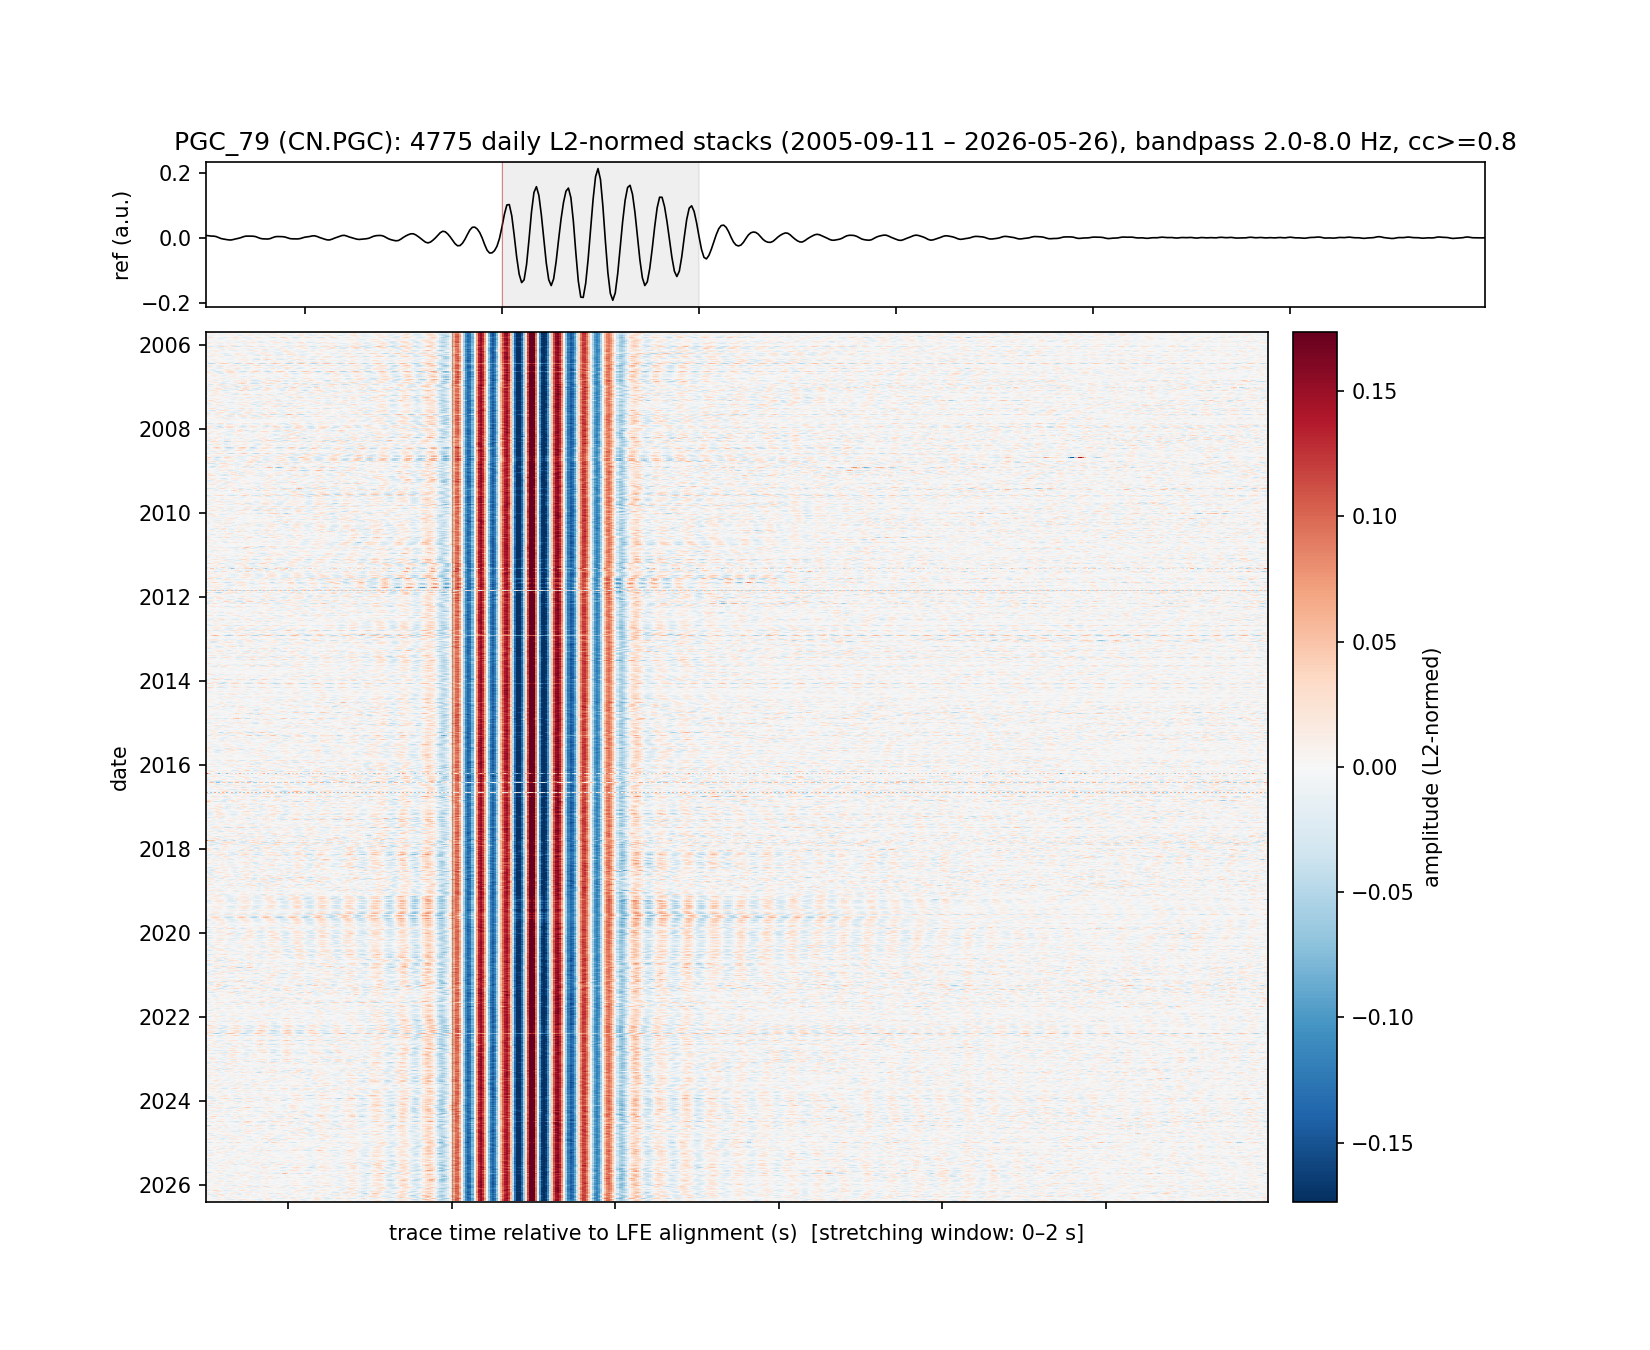
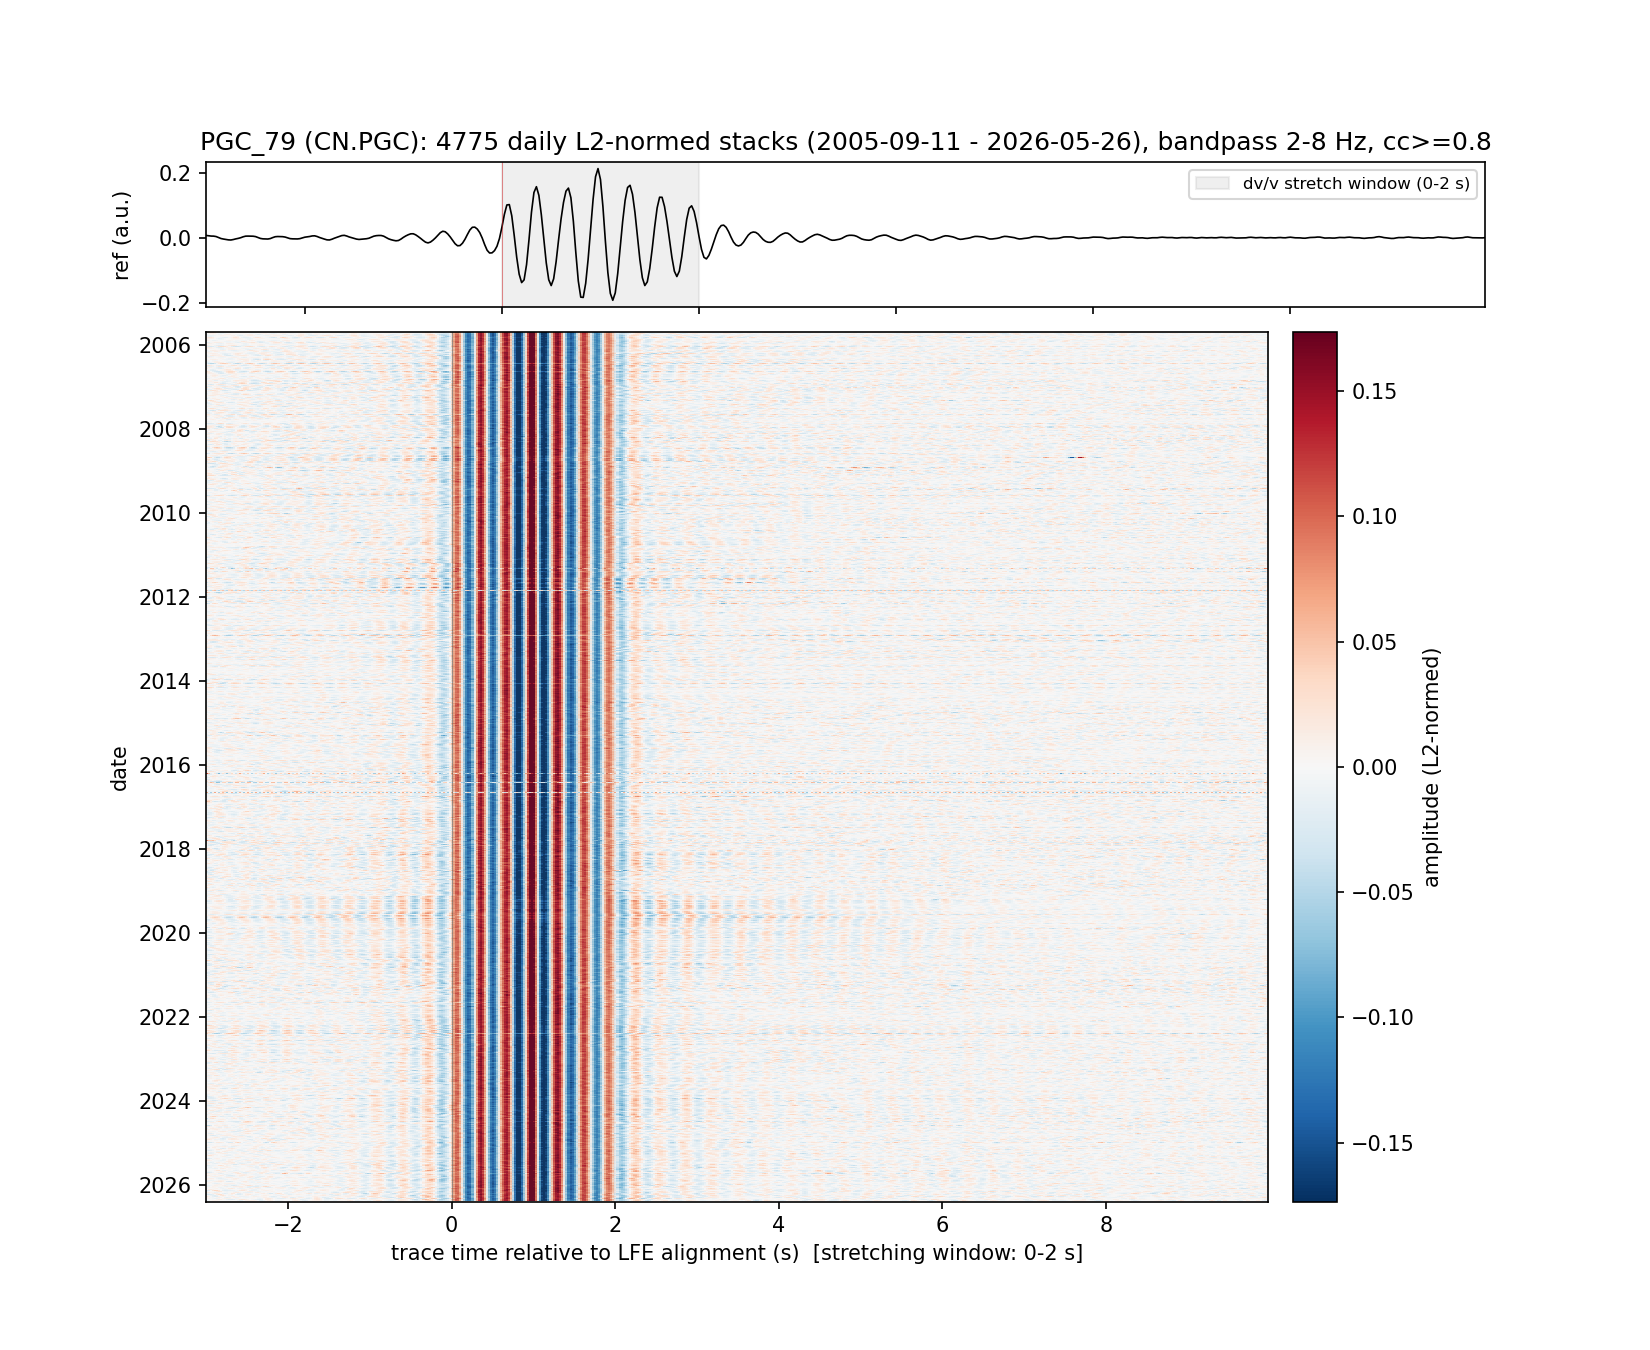
Fix missing x-axis tick labels on long-window image plot
set_xticklabels([]) on the top axis propagated through sharex to the
bottom axis. Use plt.setp(get_xticklabels(), visible=False) instead so
only the top panel hides labels, and force labelbottom=True on the
imshow axis.

Changed region(s): [[0.0927, 0.0933, 0.9273, 0.1556], [0.2473, 0.9022, 0.68, 0.9333]]

diff --git a/scripts/plot_long_window_stack.py b/scripts/plot_long_window_stack.py
@@ -200,7 +200,7 @@ def main():
         f"({df['time'].min().date()} – {df['time'].max().date()}), "
         f"bandpass {args.fmin}-{args.fmax} Hz, cc>={args.cc_min}"
     )
-    ax0.set_xticklabels([])
+    plt.setp(ax0.get_xticklabels(), visible=False)
 
     ax1 = fig.add_subplot(gs[1], sharex=ax0)
     # convert dates to ordinal floats for imshow extents
